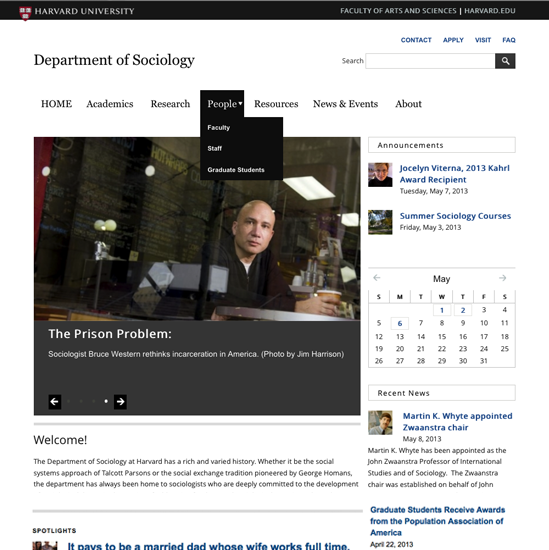
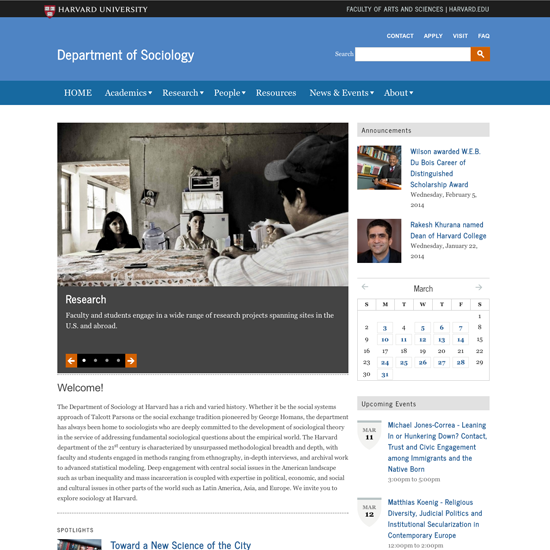
tweak modern flavor royal blue flavor. remove misplaced screenshot. #5424

diff --git a/openscholar/themes/hwpi_modern/flavors/royal_blue/royal_blue.css b/openscholar/themes/hwpi_modern/flavors/royal_blue/royal_blue.css
@@ -1,23 +1,32 @@
 @import url(http://fonts.googleapis.com/css?family=News+Cycle);
 
+body {
+	font-family:arial;color: #444;
+}
 
-body, .not-front #content-column p,.front #content-column p {font-family:georgia;color: #444;}
 h1,h2,h3,h4,
 h1 a,h2 a,h3 a,h4 a,
-#footer,
-.header-container a,
-#boxes-box-site_info a, #branding_header a, #branding_footer, #branding_footer a,
-h1.page-title, .breadcrumb a, #content-column p,h1#page-title,.block-boxes-os_boxes_sectionnav.section-nav {font-family:'News Cycle',arial;}
+#boxes-box-site_info a, 
+h1.page-title, 
+ h1#page-title {
+	font-family:'News Cycle',arial;
+	}
 
+#content-column p {
+	font-family:georgia;
+	}
 
-#boxes-box-site_info h1 a {font-weight:bold;font-size:30px;}
+#boxes-box-site_info h1 a {
+	font-weight:bold;font-size:30px;
+	}
 
-h1#page-title {color:#D16103;font-size: 27px;}
+h1#page-title {
+	color:#D16103;font-size: 27px;
+	}
 
 #menu-bar {
 background: #1769a0;
 }
-
 
 
 #menu-bar ul.nice-menu a.active,
@@ -25,8 +34,6 @@ background: #1769a0;
   background: #e1e1e1;
 
 }
-
-
 
 #menu-bar ul.nice-menu .menuparent.over > a,
 #menu-bar ul.nice-menu .menuparent a:hover,
@@ -38,7 +45,6 @@ background: #1769a0;
 #menu-bar ul.nice-menu ul {
     background:#e1e1e1;
 }
-
 
 
 #menu-bar ul.nice-menu .menuparent ul li a.active,
@@ -129,6 +135,5 @@ font-size: 13px;
 }
 
 #search-block-form input.form-submit, #search-block-form #edit-submit, #search-form #edit-submit {
-background: url("/profiles/openscholar/themes/hwpi_basetheme/images/hwpi_basesprite.png") no-repeat scroll 2px -440px #D16103;
+background: url(/profiles/openscholar/themes/hwpi_basetheme/images/hwpi_basesprite.png) no-repeat scroll 2px -440px #D16103;
 }
-
